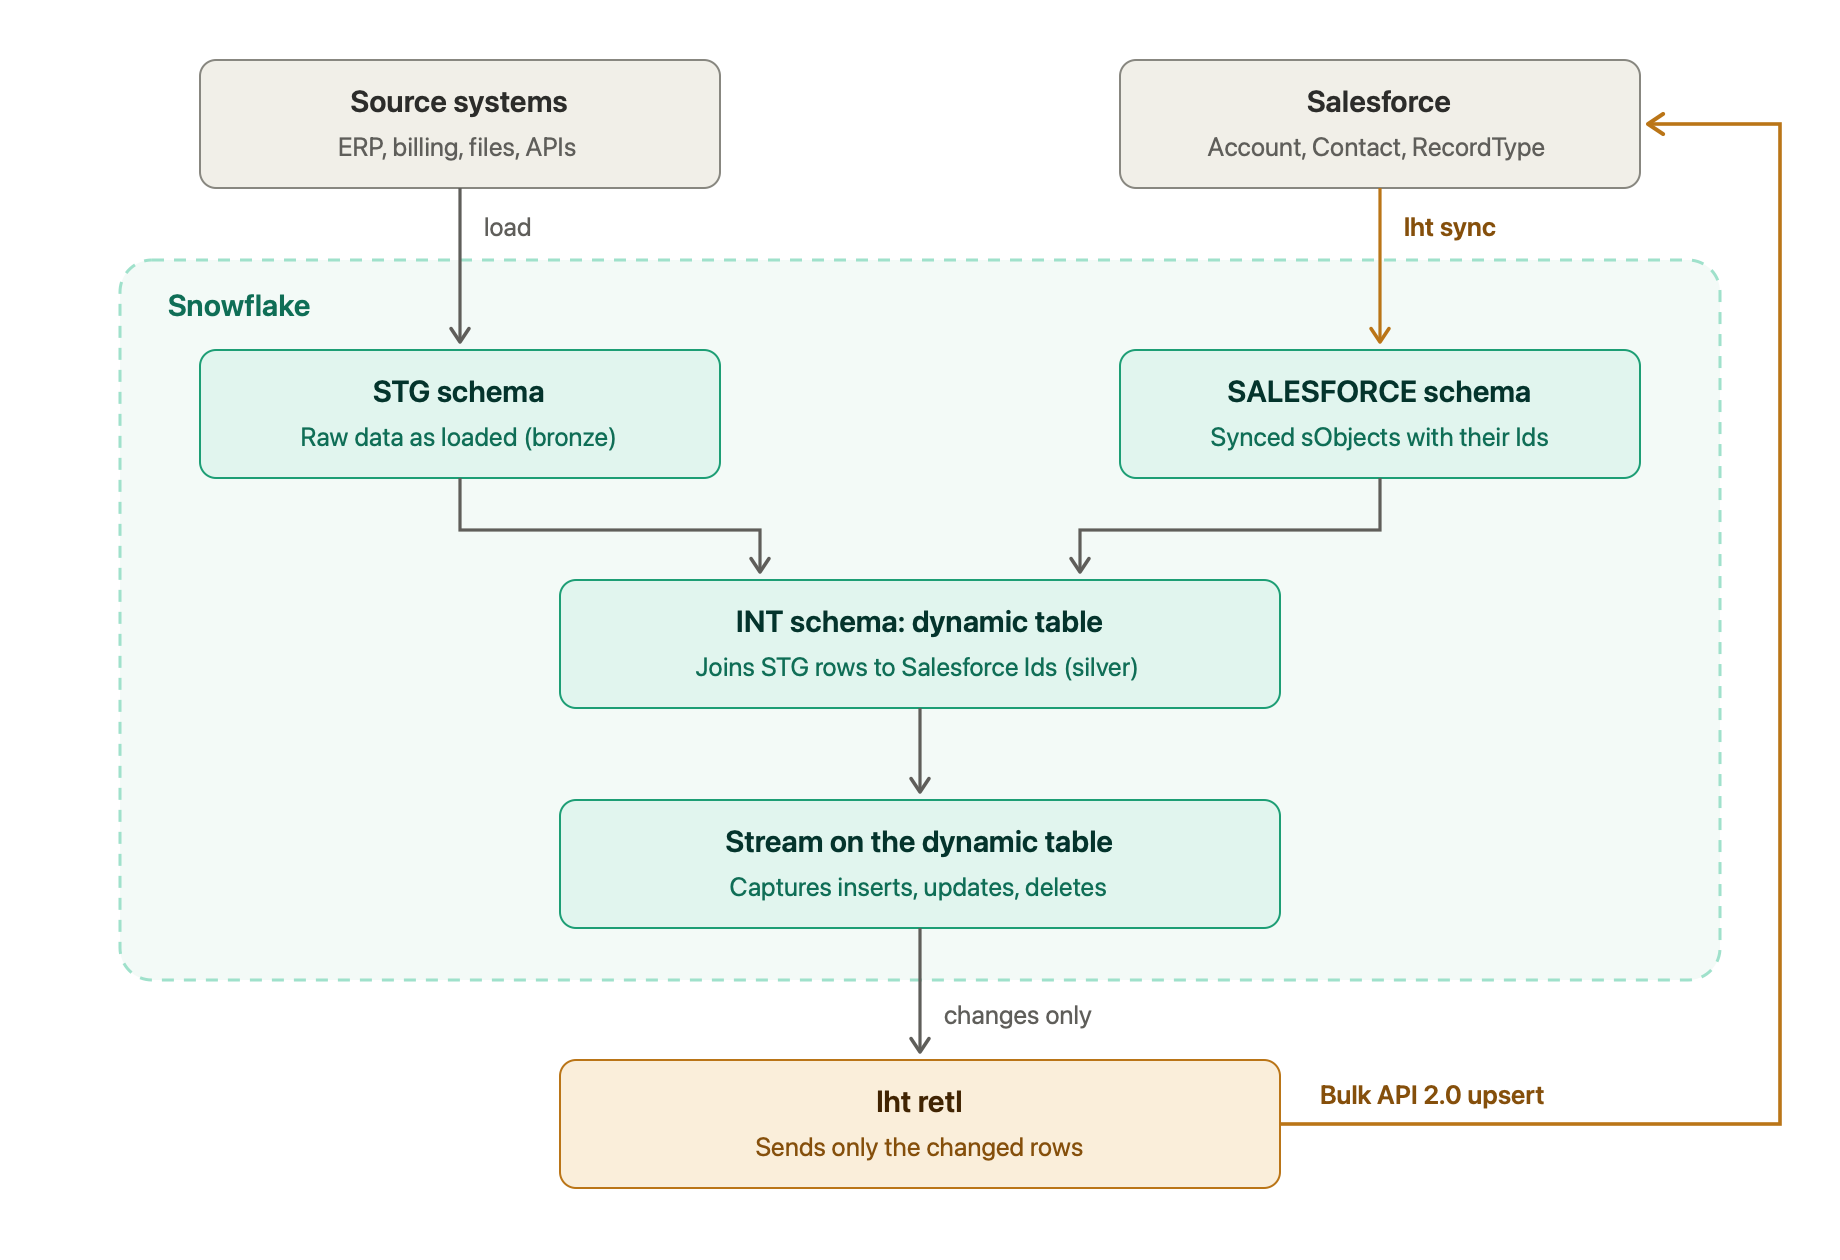
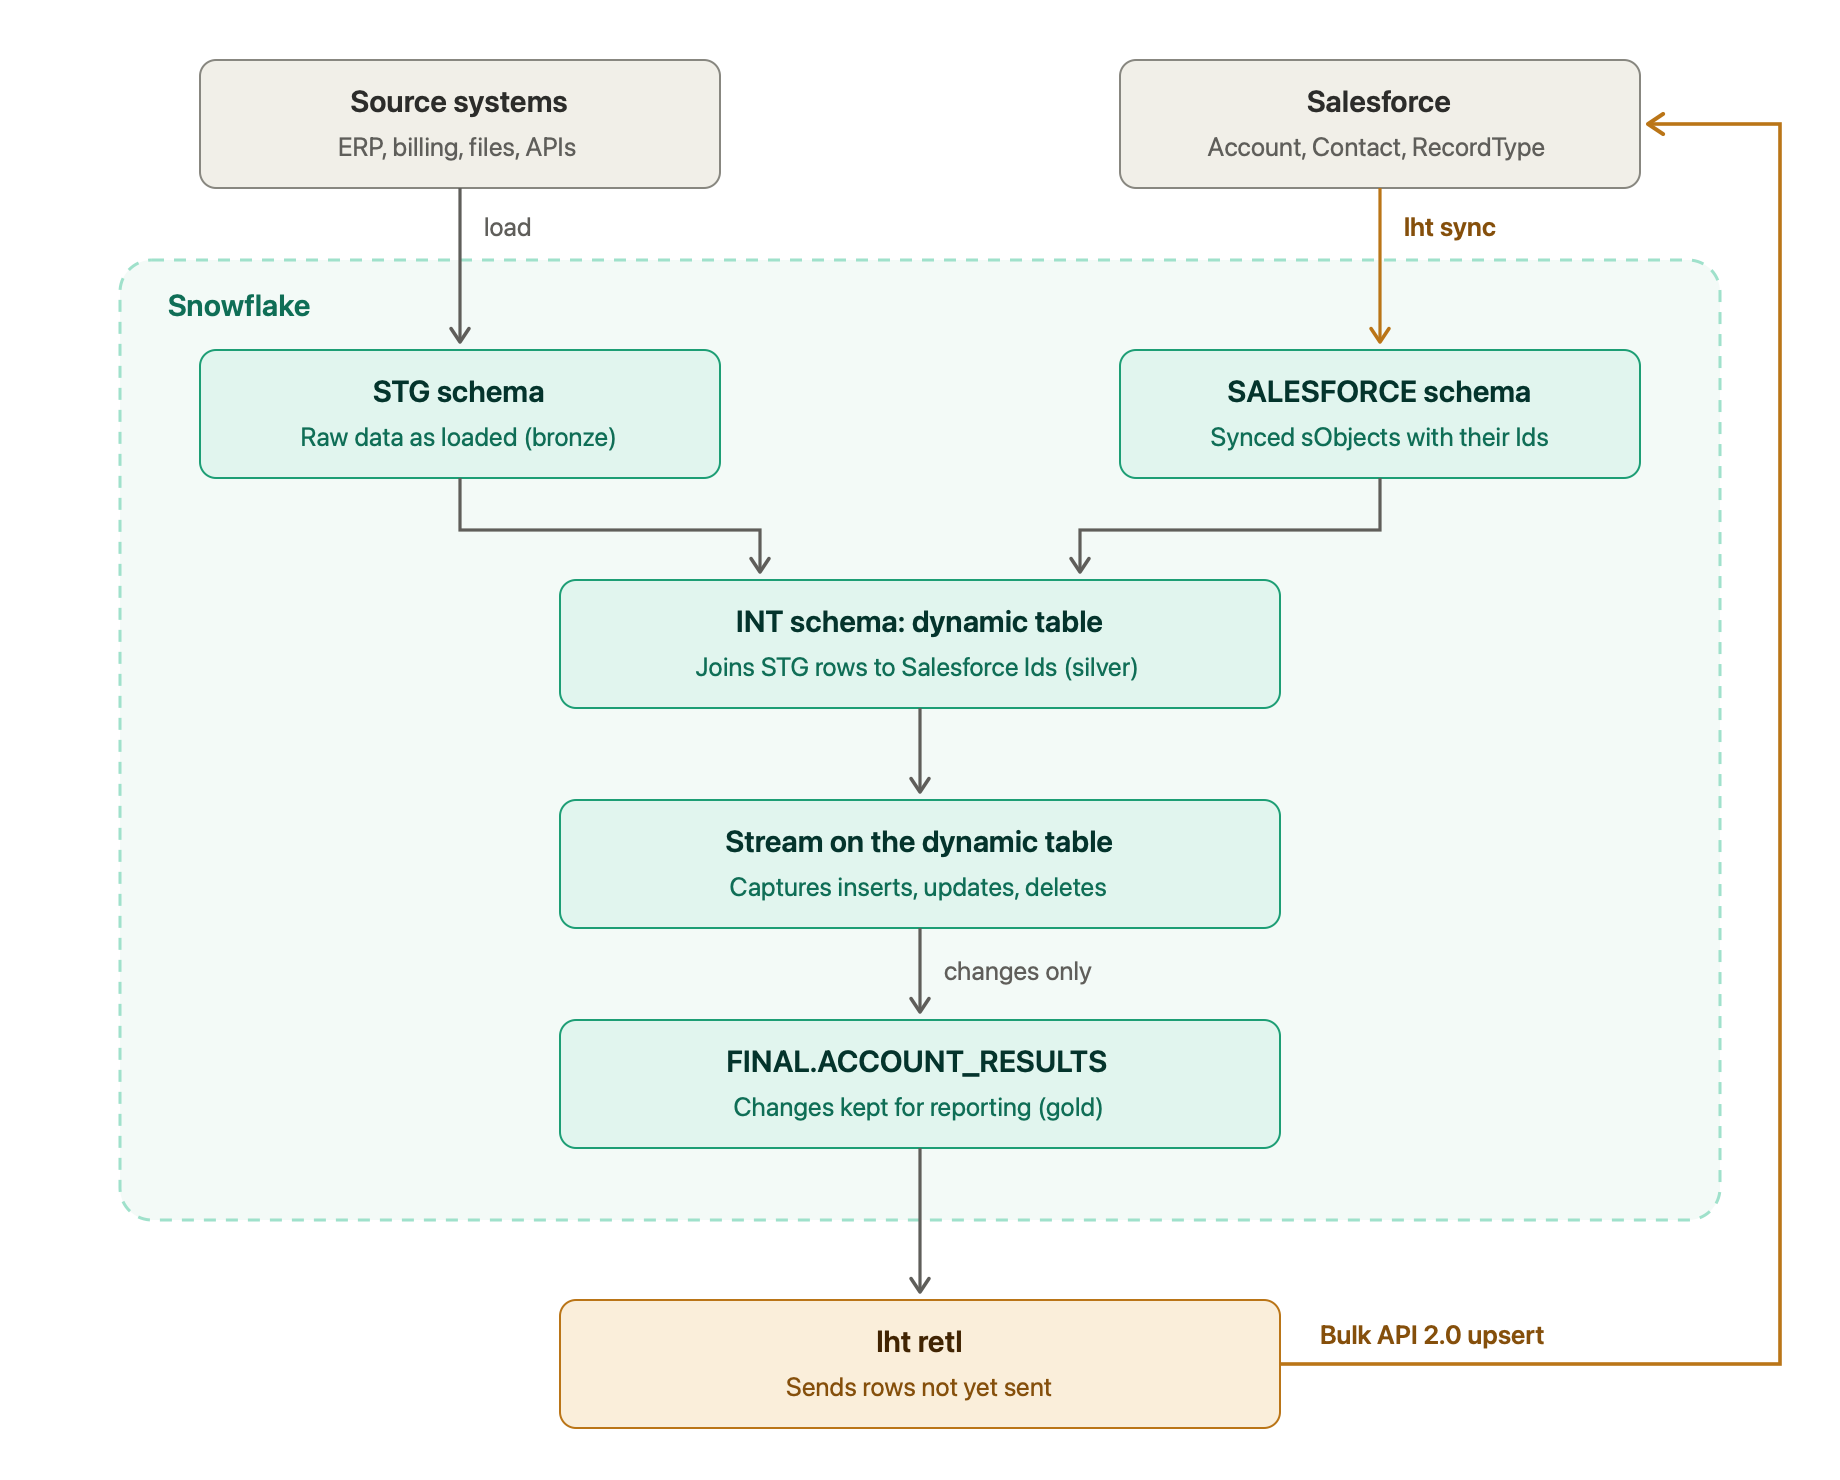
Post: hand off changes through FINAL.ACCOUNT_RESULTS
The stream is consumed into a results table in the FINAL (gold) schema,
named <SOBJECT>_RESULTS, which is kept for reporting. CAPTURED_AT and
SENT_AT mark which rows lht still has to send. The diagram shows the new
FINAL step.

diff --git a/src/content/blog/keep-salesforce-current-from-snowflake.md b/src/content/blog/keep-salesforce-current-from-snowflake.md
@@ -18,11 +18,11 @@ There are plenty of ways to do this. Few are good, and none are cheap. What you 
 
 The old adage says "fast, cheap, good: pick two." This pattern gives you all three.
 
-![Source data lands in STG; lht syncs Salesforce into the SALESFORCE schema; a dynamic table in INT joins them; a stream captures changes; lht pushes only the changed rows back to Salesforce.](/blog/keep-salesforce-current-from-snowflake/pipeline.png)
+![Source data lands in STG; lht syncs Salesforce into the SALESFORCE schema; a dynamic table in INT joins them; a stream captures changes into FINAL.ACCOUNT_RESULTS; lht pushes only the new rows back to Salesforce.](/blog/keep-salesforce-current-from-snowflake/pipeline.png)
 
 ## The pattern
 
-It combines [lht](https://github.com/lakehousetools/lht) with two Snowflake features: dynamic tables and streams. I organize it as a medallion architecture.
+It combines [lht](https://github.com/lakehousetools/lht) with two Snowflake features: dynamic tables and streams. I organize it as a medallion architecture: STG (bronze), INT (silver) and FINAL (gold).
 
 **1. Land raw data in STG (bronze).** Data from your source systems (ERP, billing, files, APIs) is loaded as-is into a staging schema.
 
@@ -32,7 +32,9 @@ It combines [lht](https://github.com/lakehousetools/lht) with two Snowflake feat
 
 **4. Capture changes with a stream.** A stream on the dynamic table records every row that is inserted, updated or deleted. Its metadata columns (`METADATA$ACTION` and `METADATA$ISUPDATE`) tell you which is which, so you can select exactly the rows that changed.
 
-**5. Push only the changes with lht.** `lht retl` sends those rows to Salesforce through the Bulk API 2.0, as an upsert. Deleted rows can go through `lht retl delete`.
+**5. Record the changes in FINAL (gold).** The changed rows are written to a results table in the FINAL schema, named after the sObject: `FINAL.ACCOUNT_RESULTS`. It's the hand-off to Salesforce, and a permanent record of what changed and when, ready for reporting.
+
+**6. Push only the changes with lht.** `lht retl` sends the new rows in `ACCOUNT_RESULTS` to Salesforce through the Bulk API 2.0, as an upsert. Deleted rows can go through `lht retl delete`.
 
 ## Why it's fast and cheap
 
@@ -40,20 +42,32 @@ In most enterprises, data doesn't change that often. Even with millions of recor
 
 ## Two details that matter
 
-**Consume the stream in a transaction.** A stream's position only moves forward when you read it inside a DML statement, such as an `INSERT`. A plain `SELECT` leaves it where it was, so the same changes would be sent again on the next run. Copy the stream's rows into a small "outbox" table in one step, then point `lht retl` at the outbox:
+**Consume the stream in a transaction.** A stream's position only moves forward when you read it inside a DML statement, such as an `INSERT`. A plain `SELECT` leaves it where it was, so the same changes would be sent again on the next run. That's why step 5 exists: the `INSERT` into `FINAL.ACCOUNT_RESULTS` consumes the stream, and lht reads from the results table. Two extra columns, `CAPTURED_AT` and `SENT_AT`, tell lht which rows are new and give you a timeline to report on.
+
+Run these three steps in order, in one scheduled job:
 
 ```sql
-INSERT INTO INT.ACCOUNT_OUTBOX
-SELECT * EXCLUDE (METADATA$ACTION, METADATA$ISUPDATE, METADATA$ROW_ID)
+-- 1. Capture the changes (this advances the stream)
+INSERT INTO FINAL.ACCOUNT_RESULTS
+SELECT * EXCLUDE (METADATA$ACTION, METADATA$ISUPDATE, METADATA$ROW_ID),
+       CURRENT_TIMESTAMP() AS CAPTURED_AT,
+       NULL AS SENT_AT
 FROM INT.ACCOUNT_CHANGES          -- the stream on the dynamic table
 WHERE METADATA$ACTION = 'INSERT'; -- new rows, and the new version of updated rows
 ```
 
 ```bash
-lht retl upsert --sobject Account --match-field Id --sql "SELECT * FROM INT.ACCOUNT_OUTBOX"
+# 2. Send the rows that haven't gone to Salesforce yet
+lht retl upsert --sobject Account --match-field Id \
+  --sql "SELECT * EXCLUDE (CAPTURED_AT, SENT_AT) FROM FINAL.ACCOUNT_RESULTS WHERE SENT_AT IS NULL"
 ```
 
-Clear the outbox after a successful run, and schedule the whole thing with a Snowflake task, cron, or your orchestrator of choice.
+```sql
+-- 3. Mark them as sent (only after step 2 succeeds)
+UPDATE FINAL.ACCOUNT_RESULTS SET SENT_AT = CURRENT_TIMESTAMP() WHERE SENT_AT IS NULL;
+```
+
+Schedule the job with cron or your orchestrator of choice.
 
 **Avoid an update loop.** After lht updates Salesforce, the next sync brings those records back into the `SALESFORCE` schema. If your dynamic table includes the fields you just pushed, the stream sees them "change" again. Keep the dynamic table focused on the source values plus the Salesforce Id, or compare against the current Salesforce values, so only real differences flow through.
 
